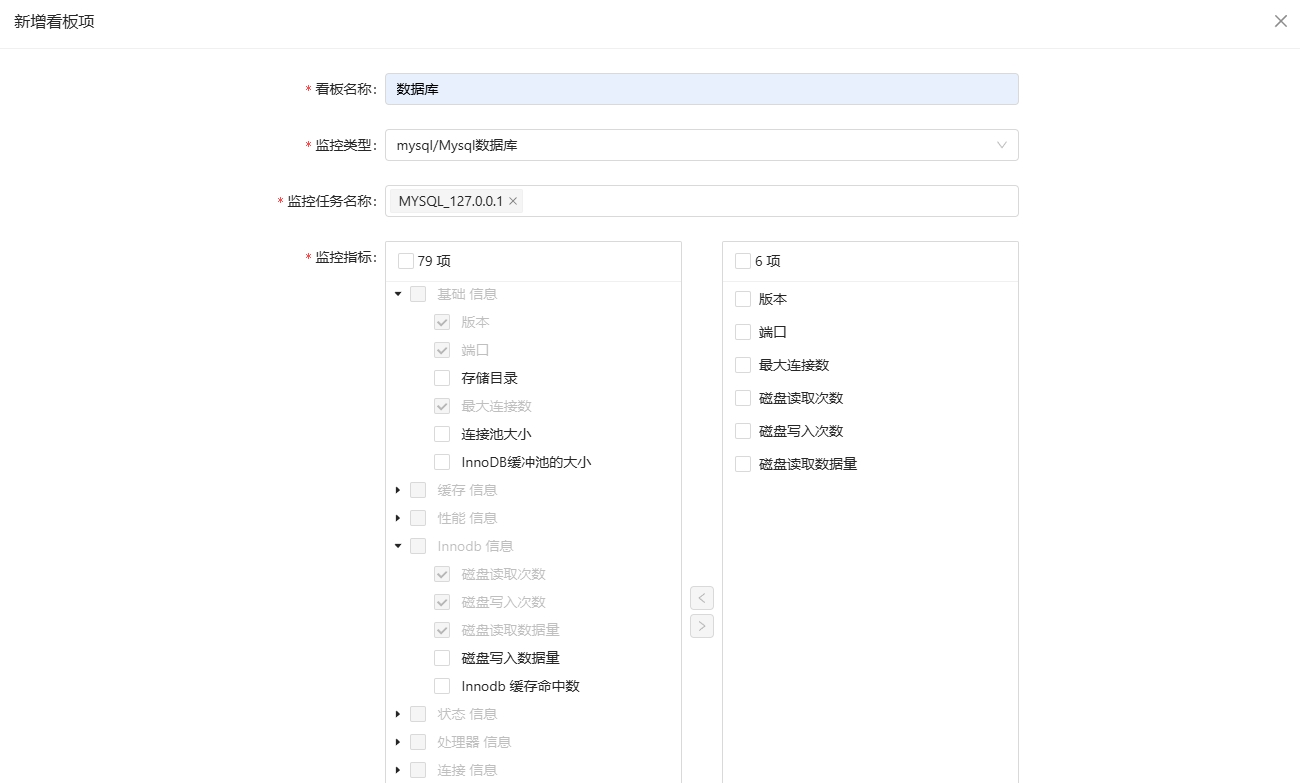
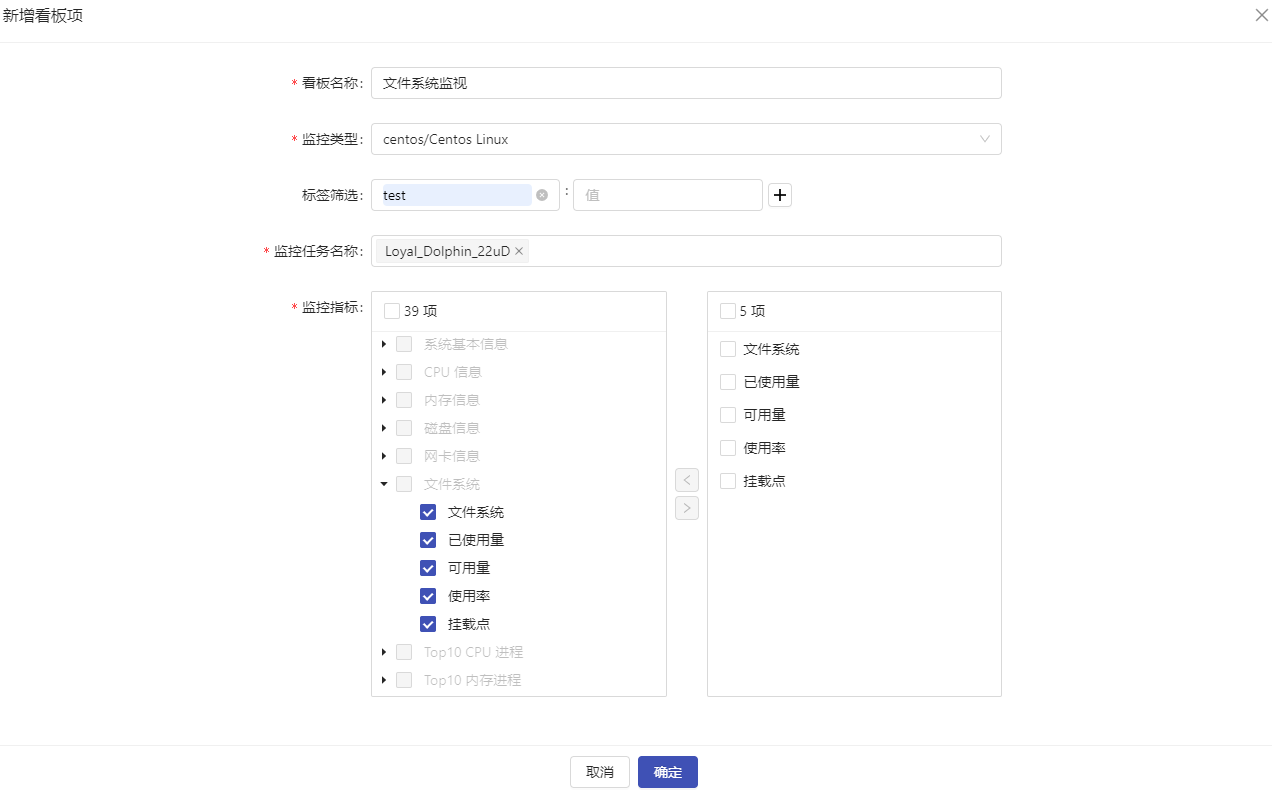
[doc] modify doc: labels-based filtering in bulletin

diff --git a/home/docs/help/bulletin.md b/home/docs/help/bulletin.md
@@ -9,7 +9,7 @@ keywords: [bulletin, custom]
 
 ### Add Bulletin Item
 
-1. Click `Add New Bulletin Item`, enter the `Bulletin Name`, scroll down to select the `Monitoring Type`, select the associated `Monitoring Task Name`, and then select the `Monitoring Metrics` you want to show in the shuttle box.
+1. Click `Add New Bulletin Item`, enter the `Bulletin Name`, scroll down to select the `Monitoring Type`, select the associated `Monitoring Task Name`, You can filter `Monitor Task Name` by `Label`, and then select the `Monitoring Metrics` you want to show in the shuttle box.
 
 2. Click `OK` button to finish creating the customized bulletin.
 

diff --git a/home/i18n/zh-cn/docusaurus-plugin-content-docs/current/help/bulletin.md b/home/i18n/zh-cn/docusaurus-plugin-content-docs/current/help/bulletin.md
@@ -9,7 +9,7 @@ keywords: [看板, 自定义]
 
 ### 新增看板项
 
-1. 点击新增看板项, 输入`看板名称`, 下拉选择`监控类型`, 再选择关联的`监控任务名称`, 最后在穿梭框中选择需要展示的`监控指标`。
+1. 点击新增看板项, 输入`看板名称`, 下拉选择`监控类型`, 可根据`标签`对`监控任务名称`进行筛选，再选择关联的`监控任务名称`, 最后在穿梭框中选择需要展示的`监控指标`。
 
 2. 点击`确定`按钮, 即可完成自定义看板的创建。
 
